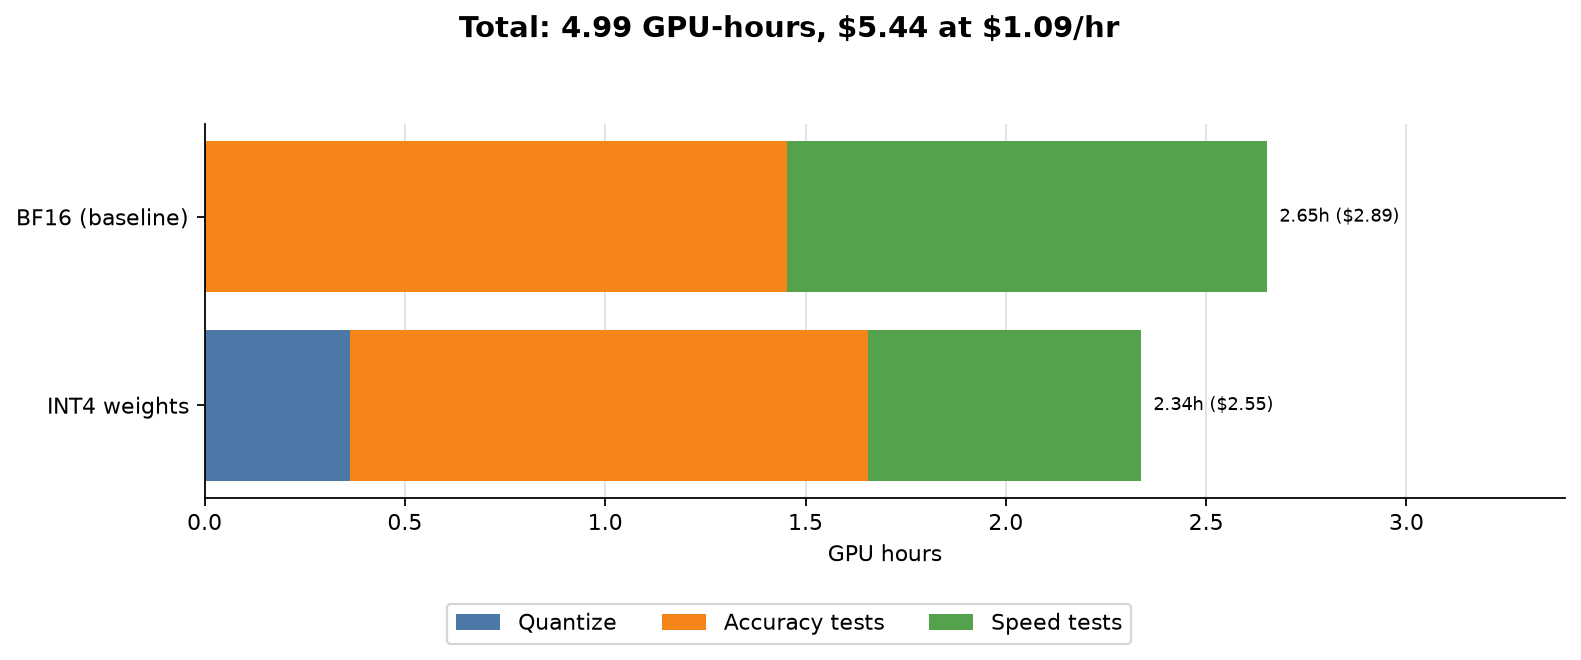
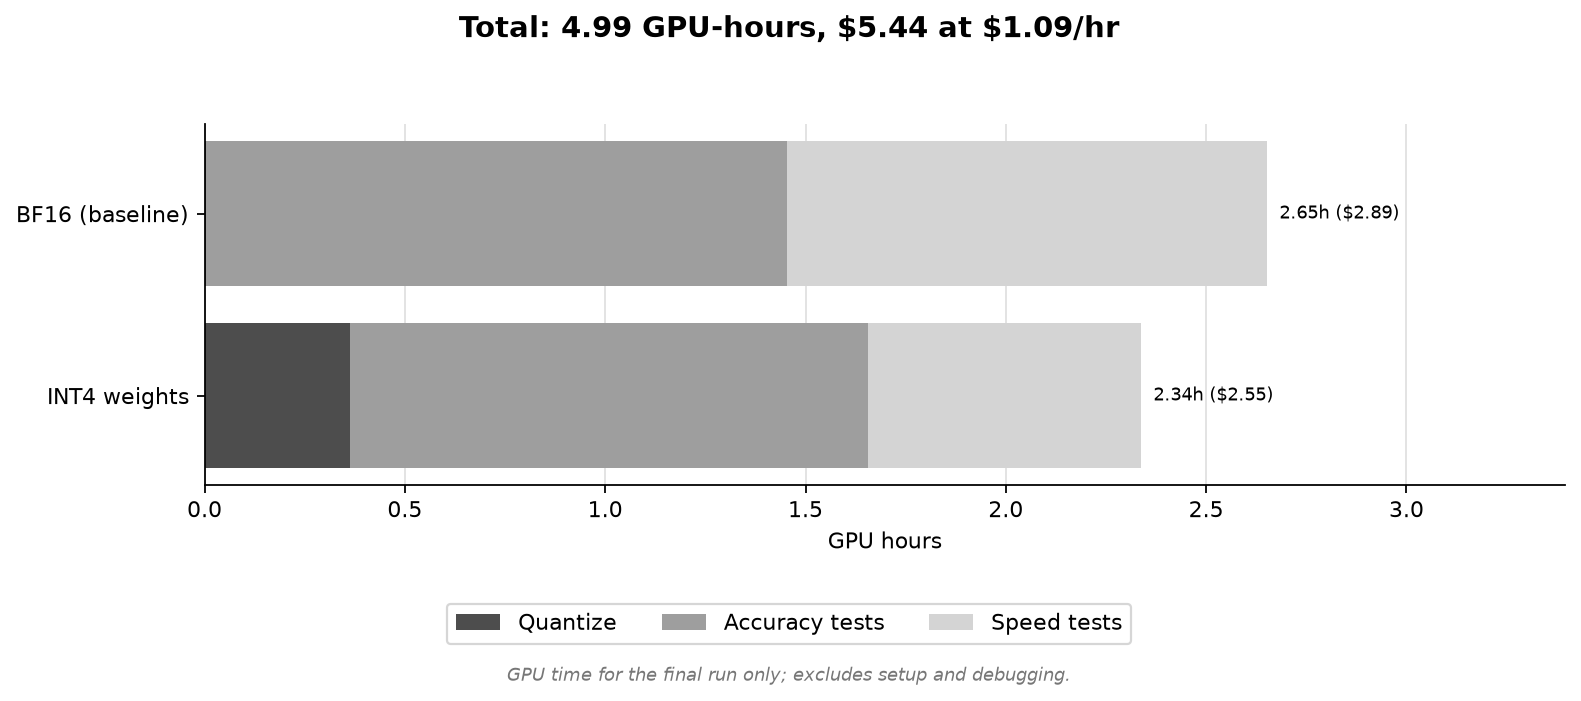
Polish article figures: hatch accuracy bars, neutral timing palette
fig2: color bars by config target, hatch GSM8K vs MMLU, 1-decimal labels.
fig3: label baseline KV bar "baseline" instead of "(+0%)".
fig4: neutral gray palette (was reusing target-color hex by accident)
plus a footnote noting GPU time excludes setup/debugging.

diff --git a/scripts/article_plots.py b/scripts/article_plots.py
@@ -191,23 +191,24 @@ def fig2_accuracy(configs: list[Config], bf16: Config, out_dir: Path) -> None:
     for i, cfg in enumerate(others):
         g, gse = gsm8k_acc(cfg)
         m, mse = mmlu_acc(cfg)
+        color = cfg.style["color"]
 
         bars = []
         if g is not None and bf16_gsm8k is not None:
             delta = (g - bf16_gsm8k) * 100
             err = math.sqrt(gse ** 2 + bf16_gsm8k_se ** 2) * 100
-            bars.append(("GSM8K", i - width / 2, delta, err, "#4C78A8"))
+            bars.append(("GSM8K", i - width / 2, delta, err, None))
         if m is not None and bf16_mmlu is not None:
             delta = (m - bf16_mmlu) * 100
             err = math.sqrt(mse ** 2 + bf16_mmlu_se ** 2) * 100
-            bars.append(("MMLU", i + width / 2, delta, err, "#F58518"))
+            bars.append(("MMLU", i + width / 2, delta, err, "//"))
 
-        for name, xpos, delta, err, color in bars:
-            ax.bar(xpos, delta, width=width, color=color, yerr=err, capsize=3, zorder=2,
-                   label=name if i == 0 else None)
+        for name, xpos, delta, err, hatch in bars:
+            ax.bar(xpos, delta, width=width, color=color, hatch=hatch, edgecolor="white",
+                   yerr=err, error_kw=dict(ecolor="black"), capsize=3, zorder=2)
             offset = (err + abs(delta) * 0.02 + 0.15) * (1 if delta >= 0 else -1)
             va = "bottom" if delta >= 0 else "top"
-            ax.text(xpos, delta + offset, f"{delta:+.2f}", ha="center", va=va, fontsize=8)
+            ax.text(xpos, delta + offset, f"{delta:+.1f}", ha="center", va=va, fontsize=8)
             label_extents.append(abs(delta + offset))
 
     ax.axhline(0.0, color="#999999", linewidth=1)
@@ -216,7 +217,12 @@ def fig2_accuracy(configs: list[Config], bf16: Config, out_dir: Path) -> None:
     ax.set_ylabel("Change vs BF16 (percentage points)")
     ymax = max(label_extents) * 1.35
     ax.set_ylim(-ymax, ymax)
-    ax.legend(loc="best")
+
+    hatch_handles = [
+        plt.Rectangle((0, 0), 1, 1, facecolor="#999999", hatch=None, edgecolor="white", label="GSM8K"),
+        plt.Rectangle((0, 0), 1, 1, facecolor="#999999", hatch="//", edgecolor="white", label="MMLU"),
+    ]
+    ax.legend(handles=hatch_handles, loc="best")
     clean_axes(ax)
 
     baseline_bits = []
@@ -248,11 +254,15 @@ def fig3_kv_capacity(configs: list[Config], bf16: Config, out_dir: Path) -> None
     kv_vals = [c.bench_meta.get("kv_cache_tokens") for c in configs]
     kv_thousands = [v / 1000 if v is not None else 0 for v in kv_vals]
     ax_kv.barh(y, kv_thousands, color=colors, zorder=2)
-    for yi, v in zip(y, kv_vals):
+    for yi, cfg, v in zip(y, configs, kv_vals):
         if v is None:
             continue
-        pct = (v / bf16_kv - 1) * 100 if bf16_kv else 0
-        ax_kv.text(v / 1000, yi, f"  {v / 1000:.0f}k ({pct:+.0f}%)", va="center", fontsize=8)
+        if cfg.id == bf16.id:
+            suffix = "baseline"
+        else:
+            pct = (v / bf16_kv - 1) * 100 if bf16_kv else 0
+            suffix = f"{pct:+.0f}%"
+        ax_kv.text(v / 1000, yi, f"  {v / 1000:.0f}k ({suffix})", va="center", fontsize=8)
     ax_kv.set_yticks(y)
     ax_kv.set_yticklabels(labels)
     ax_kv.invert_yaxis()
@@ -302,11 +312,11 @@ def fig4_timing(configs: list[Config], rate: float, out_dir: Path) -> tuple[floa
     eval_h = [c.eval.get("eval_seconds", 0.0) / 3600 for c in configs]
     bench_h = [bench_seconds(c) / 3600 for c in configs]
 
-    ax.barh(y, quant_h, color="#4C78A8", label="Quantize", zorder=2)
+    ax.barh(y, quant_h, color="#4d4d4d", label="Quantize", zorder=2)
     left = list(quant_h)
-    ax.barh(y, eval_h, left=left, color="#F58518", label="Accuracy tests", zorder=2)
+    ax.barh(y, eval_h, left=left, color="#9e9e9e", label="Accuracy tests", zorder=2)
     left = [a + b for a, b in zip(left, eval_h)]
-    ax.barh(y, bench_h, left=left, color="#54A24B", label="Speed tests", zorder=2)
+    ax.barh(y, bench_h, left=left, color="#d4d4d4", label="Speed tests", zorder=2)
 
     totals = [q + e + b for q, e, b in zip(quant_h, eval_h, bench_h)]
     ax.set_xlim(0, max(totals) * 1.28)
@@ -323,6 +333,8 @@ def fig4_timing(configs: list[Config], rate: float, out_dir: Path) -> tuple[floa
 
     handles, leg_labels = ax.get_legend_handles_labels()
     fig.legend(handles, leg_labels, loc="lower center", ncol=3, bbox_to_anchor=(0.5, -0.02))
+    fig.text(0.5, -0.06, "GPU time for the final run only; excludes setup and debugging.",
+              ha="center", fontsize=8, color="#777777", style="italic")
 
     grand_total_h = sum(totals)
     grand_total_cost = grand_total_h * rate
@@ -330,7 +342,7 @@ def fig4_timing(configs: list[Config], rate: float, out_dir: Path) -> tuple[floa
         f"Total: {grand_total_h:.2f} GPU-hours, \\${grand_total_cost:.2f} at \\${rate:.2f}/hr",
         fontsize=13, fontweight="bold",
     )
-    fig.tight_layout(rect=(0, 0.08, 1, 0.93))
+    fig.tight_layout(rect=(0, 0.1, 1, 0.93))
     fig.savefig(out_dir / "fig4_timing.png", dpi=160, bbox_inches="tight")
     plt.close(fig)
     return grand_total_h, grand_total_cost
